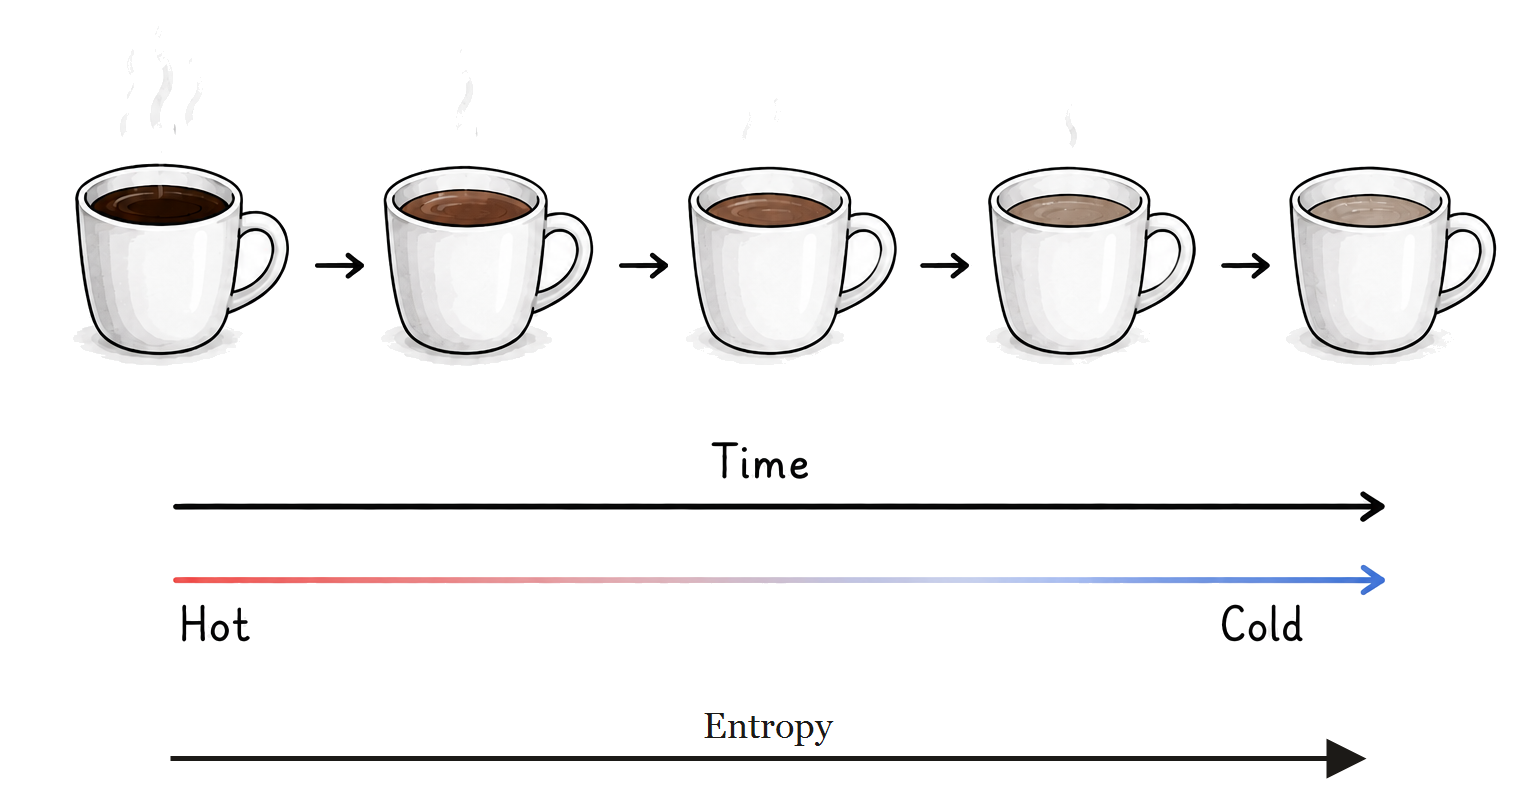
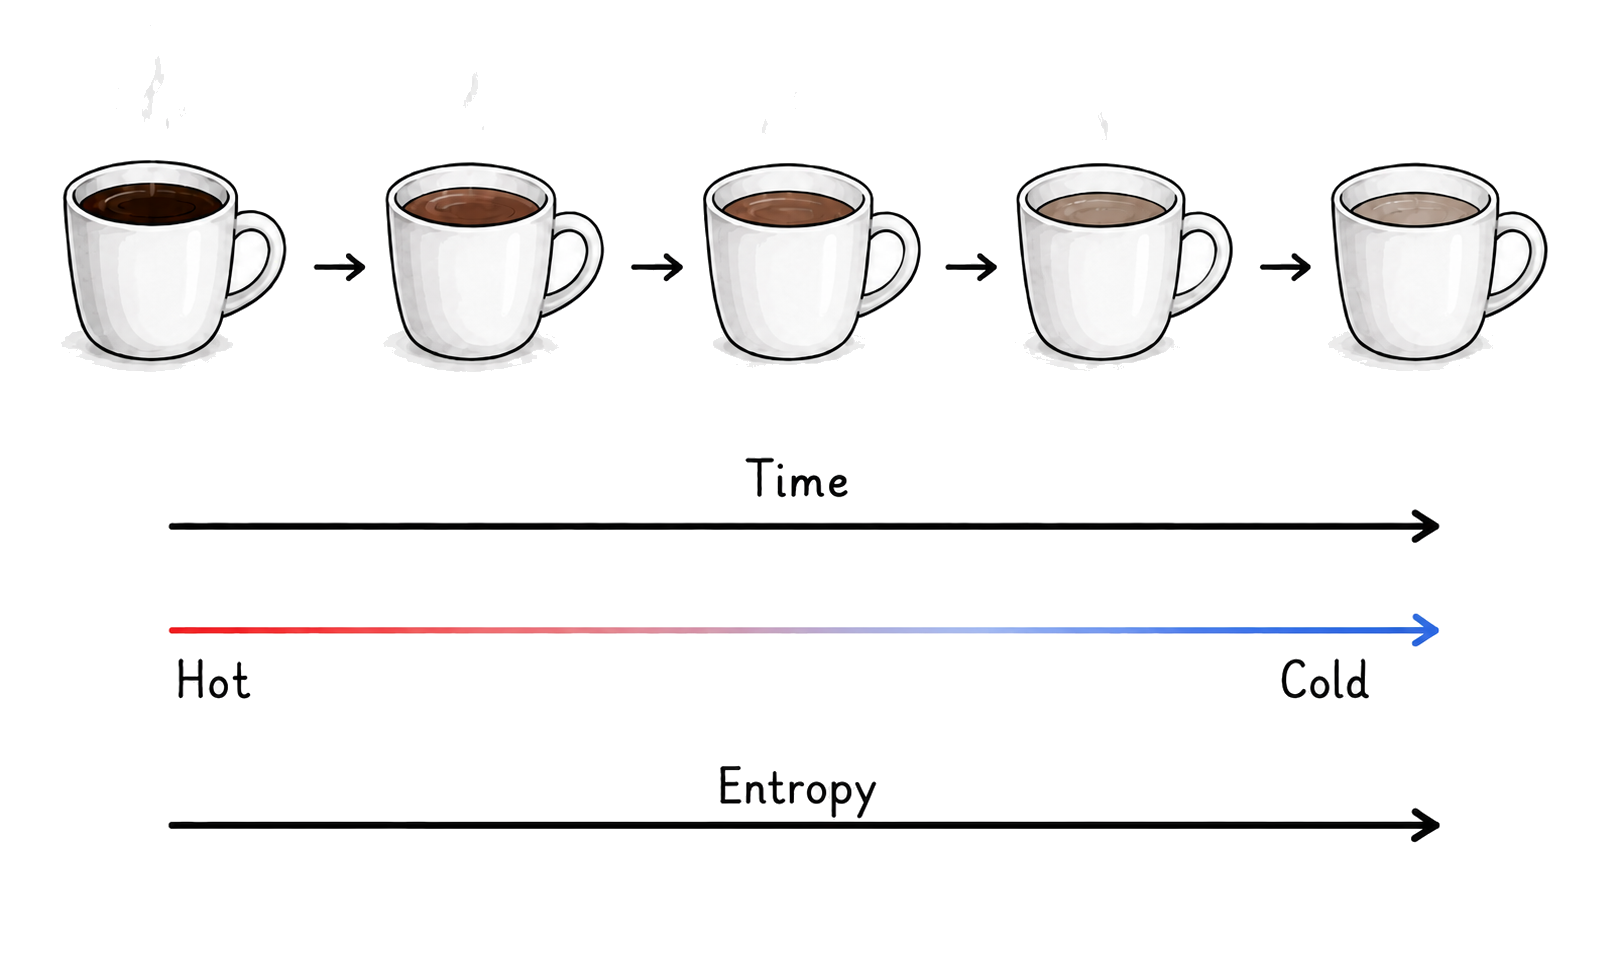
Refine active inference chapter two title

Changed region(s): [[0.0312, 0.1543, 0.9688, 0.5864], [0.0938, 0.6173, 0.9062, 0.8025], [0.0938, 0.7716, 0.9062, 0.9568]]

diff --git a/active-inference-chapter-2-statistical-mechanics-and-the-second-law-of-thermodynamics.html b/active-inference-chapter-2-statistical-mechanics-and-the-second-law-of-thermodynamics.html
@@ -3,7 +3,7 @@
 <head>
   <meta charset="UTF-8" />
   <meta name="viewport" content="width=device-width, initial-scale=1.0" />
-  <title>Chapter 2: Statistical Mechanics and the Second Law of Thermodynamics | Active Inference | Sam Kirwan</title>
+  <title>Chapter 2: Statistical Mechanics | Active Inference | Sam Kirwan</title>
   <link rel="preconnect" href="https://fonts.googleapis.com">
   <link rel="preconnect" href="https://fonts.gstatic.com" crossorigin>
   <link href="https://fonts.googleapis.com/css2?family=EB+Garamond:ital,wght@0,400;0,500;1,400;1,500&family=Libre+Baskerville:ital,wght@0,400;0,700;1,400&display=swap" rel="stylesheet">
@@ -14,7 +14,7 @@
   <header>
     <div class="header-rule top-rule"></div>
     <div class="header-inner">
-      <h1 class="essay-title">Chapter 2: Statistical Mechanics and the Second Law of Thermodynamics</h1>
+      <h1 class="essay-title">Chapter 2: Statistical Mechanics</h1>
       <p class="essay-subtitle">A Brief History of the Ideas Behind Active Inference</p>
       <div class="byline-row">
         <span class="byline-rule"></span>

diff --git a/active-inference.html b/active-inference.html
@@ -32,7 +32,7 @@
       </a>
 
       <a class="article-card chapter-card" href="active-inference-chapter-2-statistical-mechanics-and-the-second-law-of-thermodynamics.html">
-        <span class="article-card-title">Chapter 2: Statistical Mechanics and the Second Law of Thermodynamics</span>
+        <span class="article-card-title">Chapter 2: Statistical Mechanics</span>
         <span class="article-card-footer">
           <strong>Read More -></strong>
         </span>